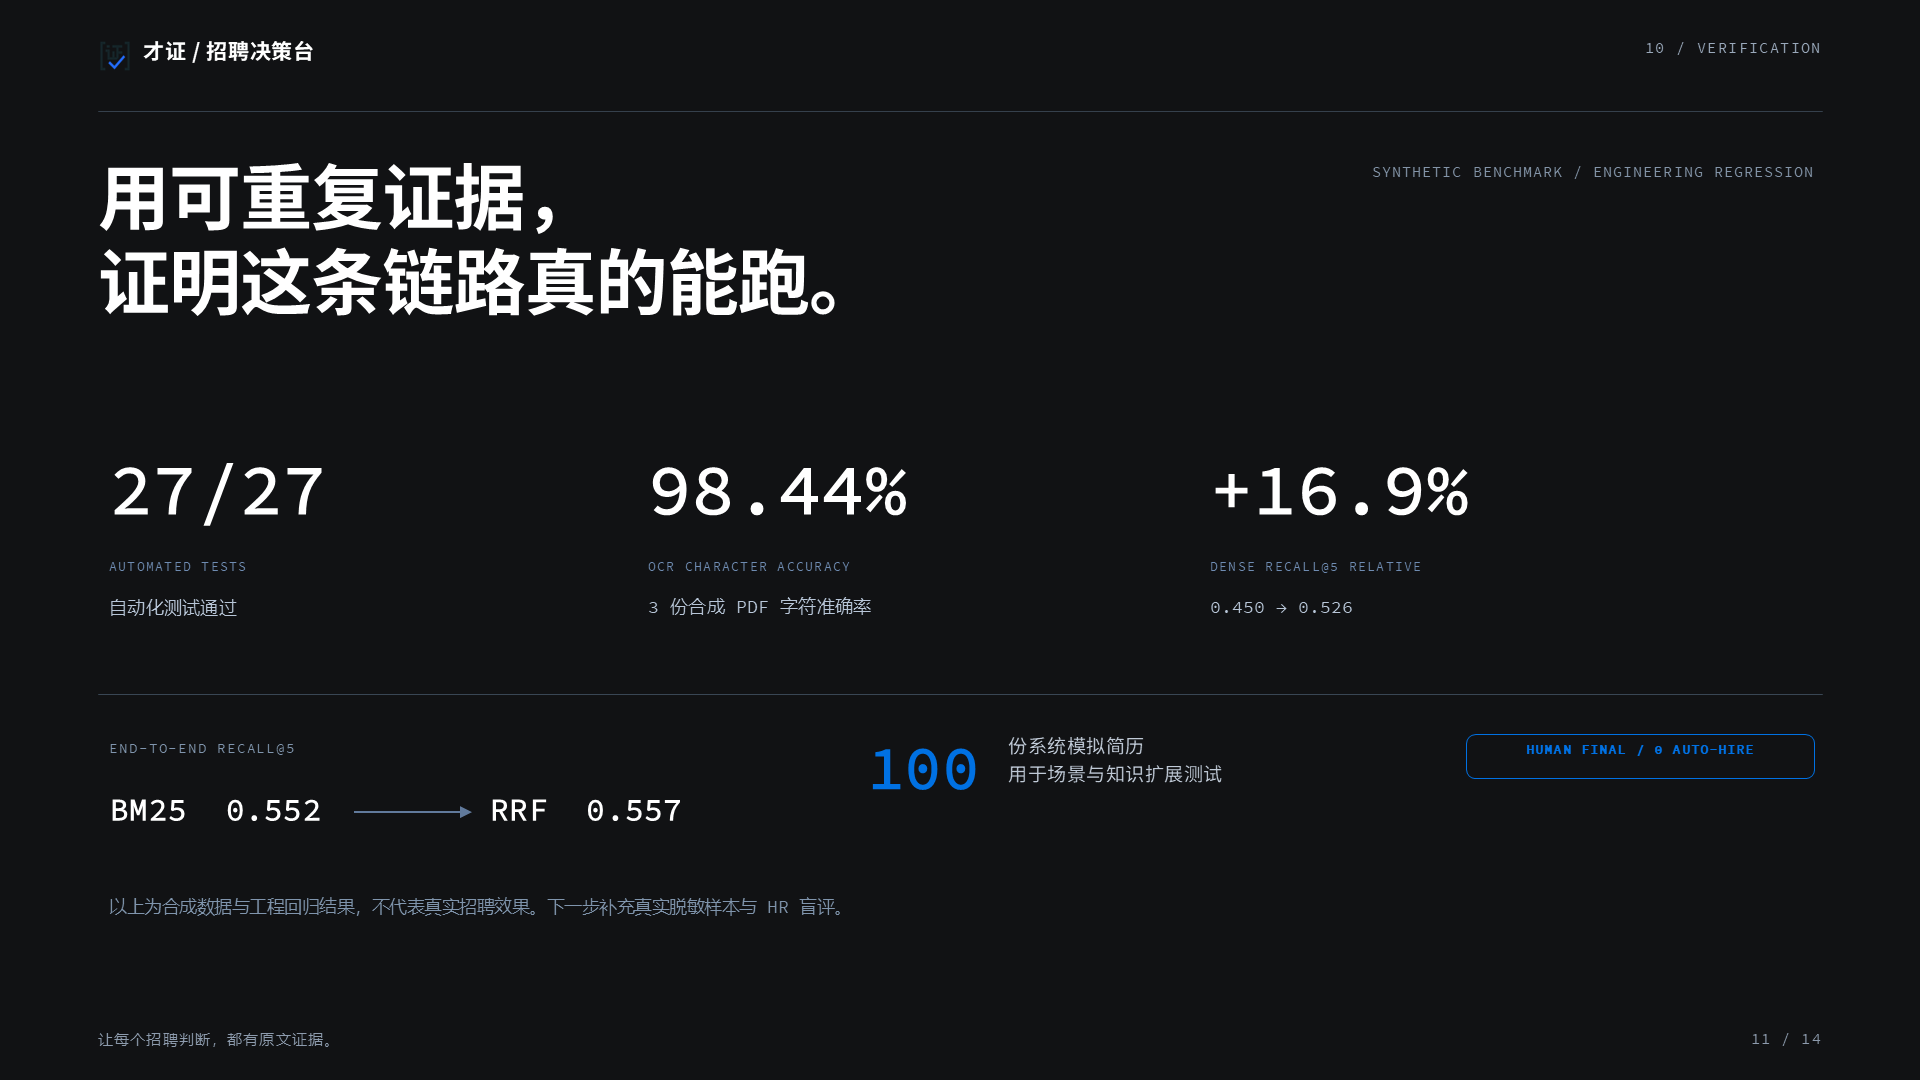
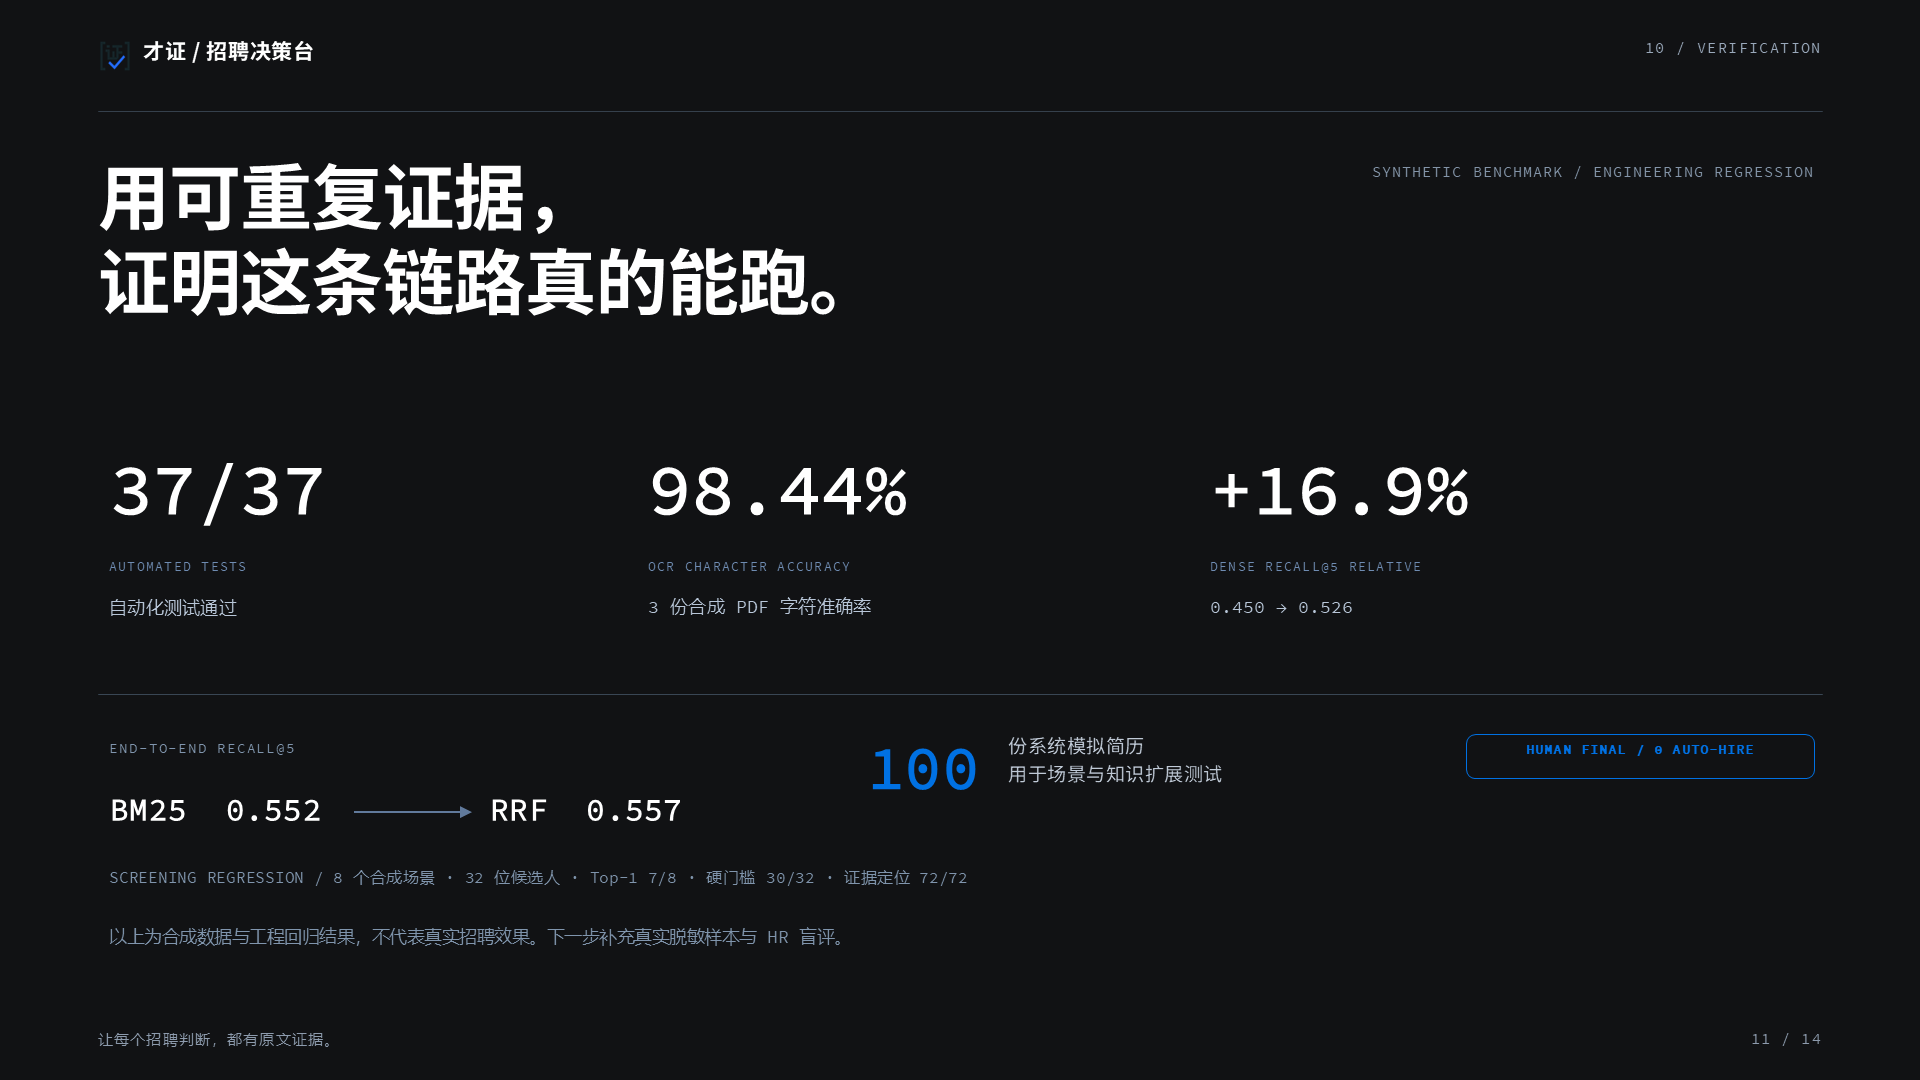
docs: align metrics and test counts across deliverables

diff --git a/路演PPT_才证/design-demos/thumbs.html b/路演PPT_才证/design-demos/thumbs.html
@@ -35,7 +35,7 @@
   <section class="thumb t1" data-thumb="1"><small>01 / SWISS EVIDENCE GRID</small><h2>证据先于<br>结论</h2><p>网格、规则线和单一蓝色信号，让每一段判断都被准确地放置。</p><div class="line"></div><div class="dot"></div></section>
   <section class="thumb t2" data-thumb="2"><small>02 / DATA LEDGER</small><h2>招聘判断<br>可被计量</h2><p>把排名、门槛、回退和审计做成同一张可读账本。</p><div class="meter"><i class="bar" style="left:18px;height:42px"></i><i class="bar" style="left:76px;height:68px"></i><i class="bar" style="left:134px;height:84px;background:#248a5b"></i></div></section>
   <section class="thumb t3" data-thumb="3"><small>03 / MIDNIGHT BLUEPRINT</small><h2>AI 提供证据<br>规则负责计算</h2><p>深色系统图上，模型、规则与人的边界清晰可见。</p><div class="node"></div></section>
-  <section class="thumb t4" data-thumb="4"><small>04 / DECISION CONTROL ROOM</small><h2>每一个状态<br>都有来源</h2><p>等待、通过、失效、回退，不是隐藏动作，而是可观察状态。</p><div class="strip">AUDIT ONLINE · 27/27 TESTS · HUMAN FINAL</div></section>
+  <section class="thumb t4" data-thumb="4"><small>04 / DECISION CONTROL ROOM</small><h2>每一个状态<br>都有来源</h2><p>等待、通过、失效、回退，不是隐藏动作，而是可观察状态。</p><div class="strip">AUDIT ONLINE · 37/37 TESTS · HUMAN FINAL</div></section>
   <section class="thumb t5" data-thumb="5"><small>05 / EDITORIAL TRUST</small><h2>让每个判断<br>都有原文证据</h2><p>一份写给人的证据档案，而不是一组写给模型的提示词。</p><div class="sheet"></div></section>
   <section class="thumb t6" data-thumb="6"><small>06 / BETWEEN VOICE & DECISION</small><h2>从证据缺口<br>追问出答案</h2><p>电话不是外挂，它把新的回答重新带回证据链。</p><div class="wave"></div></section>
 </div>

diff --git a/路演PPT_才证/design-demos/dir-2.html b/路演PPT_才证/design-demos/dir-2.html
@@ -49,7 +49,7 @@
     <div class="tag fade d1">EVIDENCE-BOUND<br>HIRING SYSTEM</div>
     <h1 class="fade d1">AI 提供证据。<br><em>规则负责计算。</em><br>HR 完成决策。</h1>
     <p class="lead fade d2">招聘的瓶颈不是文本处理，而是信任。<br>才证把每一次判断变成一条可以回到原文的证据链。</p>
-    <div class="stamp fade d3">27/27 TESTS PASSED<br>HUMAN FINAL / AUDIT ONLINE</div>
+    <div class="stamp fade d3">37/37 TESTS PASSED<br>HUMAN FINAL / AUDIT ONLINE</div>
     <div class="map fade d2">
       <div class="node model"><b>LLM / 语义</b><small>结构化 · 匹配 · 追问</small></div>
       <div class="orb">AUDIT</div>

diff --git a/路演PPT_才证/design-demos/dir-1.html b/路演PPT_才证/design-demos/dir-1.html
@@ -82,7 +82,7 @@
       <div class="bar b2"><p>0.526</p><small>LoRA-v4</small></div>
     </div>
     <div class="metric-row">
-      <div class="metric"><b>27/27</b><span>自动化测试</span></div>
+      <div class="metric"><b>37/37</b><span>自动化测试</span></div>
       <div class="metric"><b>98.44%</b><span>合成 PDF OCR 字符准确率</span></div>
       <div class="metric"><b>0.557</b><span>混合检索 Recall@5</span></div>
     </div>

diff --git a/才证_黑客松路演PPT生成提示词.md b/才证_黑客松路演PPT生成提示词.md
@@ -86,9 +86,9 @@
 
 请只按下列口径展示，并保留“合成数据/工程回归，不代表真实招聘效果”的限制说明。
 
-- 自动化测试：**27/27 通过**。
+- 自动化测试：**37/37 通过**。
 - OCR 工程评估：3 份合成 PDF，字符准确率 **98.44%**，关键字段准确率 **100%**，技能词召回率 **100%**；当前样本规模较小，仍需真实扫描件和手机拍照样本。
-- 招聘筛选工程回归：3 个虚构岗位场景、9 份候选样本，Top-1、硬门槛、原文定位和敏感属性不变性均通过预期；该结果不代表真实招聘效果。
+- 招聘筛选工程回归：8 个合成场景、32 位候选样本，Top-1 准确率 **87.5%（7/8）**、Pairwise 排序准确率 **97.9%（47/48）**、硬门槛准确率 **93.8%（30/32）**、证据可定位率 **100%（72/72）**；边界误判已保留，该结果不代表真实招聘效果。
 - 领域检索数据：64 个虚构企业实体、904 份知识文档、22,346 个扩展独立查询，训练/验证/测试按企业实体隔离。
 - Dense Recall@5：BGE-M3 基础模型 **0.450**，LoRA-v4 **0.526**；相对提升约 **16.9%**。
 - 最终端到端 Recall@5：BM25 **0.552**，BM25 + Dense + RRF **0.557**；这是合成留出集上的工程结果。
@@ -182,11 +182,11 @@
 
 - 大标题：**用可重复证据，证明这条链路真的能跑**
 - 展示四个关键数字：
-  - **27/27**：自动化测试通过
+  - **37/37**：自动化测试通过
   - **98.44%**：合成 PDF OCR 字符准确率
   - **0.450 → 0.526**：Dense Recall@5；加入 LoRA 后的相对提升约 16.9%
   - **0.552 → 0.557**：端到端 Recall@5，BM25 → BM25 + Dense + RRF
-- 补充一行：**3 个虚构招聘场景、9 份候选样本的工程回归通过；Top-1、硬门槛、原文定位、敏感属性不变性均有测试。**
+- 补充一行：**8 个合成场景、32 位候选人的工程回归；Top-1 87.5%（7/8）、硬门槛 93.8%（30/32）、证据定位 72/72，已知边界误判保留。**
 - 页面底部小字：**以上为合成数据与工程回归结果，不代表真实招聘效果。下一步将开展真实脱敏样本和 HR 盲评。**
 - 视觉：深色数据页，四个数据点组成一条从左到右的验证轨迹；数字使用大字号，说明文字克制。
 
@@ -292,7 +292,7 @@
 
 ### 第 8 页｜3:10–3:40
 
-“目前项目已经通过 27 项自动化测试；合成 PDF 的 OCR 字符准确率是 98.44%；领域 Dense Recall@5 从 0.450 提升到 0.526，端到端 Recall@5 也从 BM25 的 0.552 提升到 0.557。需要强调，这些是合成数据和工程回归结果，不代表真实招聘效果，下一步会做真实脱敏样本和 HR 盲评。”
+“目前项目已经通过 37 项自动化测试；在 8 个合成场景、32 位候选人中，Top-1 准确率 87.5%，硬门槛准确率 93.8%，证据引用 72/72 可定位。合成 PDF 的 OCR 字符准确率是 98.44%；领域 Dense Recall@5 从 0.450 提升到 0.526，端到端 Recall@5 也从 BM25 的 0.552 提升到 0.557。需要强调，这些是合成数据和工程回归结果，不代表真实招聘效果，下一步会做真实脱敏样本和 HR 盲评。”
 
 ### 第 9 页｜3:40–4:00
 

diff --git a/路演PPT_才证/product-facts.md b/路演PPT_才证/product-facts.md
@@ -20,12 +20,12 @@
 
 ## 可展示指标
 
-- 自动化测试：27/27 通过。
+- 自动化测试：37/37 通过。
 - 合成 PDF OCR：字符准确率 98.44%，关键字段准确率 100%，技能召回 100%（3 份合成样本）。
 - Dense Recall@5：BGE-M3 基础模型 0.450 → LoRA-v4 0.526。
 - 端到端 Recall@5：BM25 0.552 → BM25 + Dense + RRF 0.557。
 - 数据规模：64 个虚构企业实体、904 份知识文档、22,346 个扩展查询。
-- 招聘筛选回归：3 个虚构岗位、9 份候选样本；仅代表工程回归，不代表真实招聘效果。
+- 招聘筛选回归：8 个合成场景、32 位候选样本；Top-1 87.5%（7/8）、Pairwise 排序 97.9%（47/48）、硬门槛 93.8%（30/32）、证据可定位 100%（72/72）。仅代表工程回归，不代表真实招聘效果。
 
 ## 必须保留的边界
 

diff --git a/README.md b/README.md
@@ -256,7 +256,7 @@ node --test
 npm.cmd run eval:screening
 ```
 
-报告写入 `evaluation/screening-results.json`，覆盖排序、硬门槛、原文定位和敏感属性不变性。当前基准为人工设计的合成场景，仅用于回归，不代表真实招聘效果。
+报告写入 `evaluation/screening-results.json`，覆盖排序、硬门槛、原文定位和敏感属性不变性。当前基准包含 8 个合成场景、32 位候选人：Top-1 准确率 87.5%（7/8）、Pairwise 排序准确率 97.9%（47/48）、硬门槛准确率 93.8%（30/32）、证据可定位率 100%（72/72）。该结果仅用于工程回归，不代表真实招聘效果。
 
 OCR 工程评估：
 
